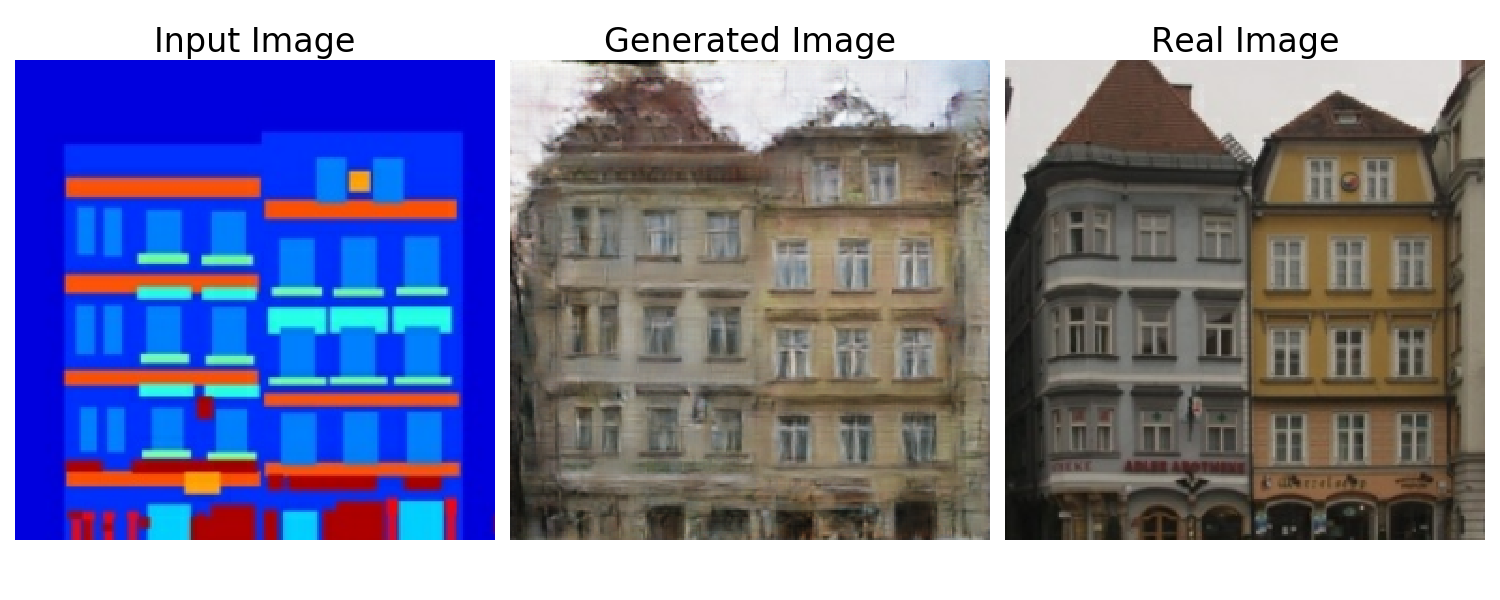
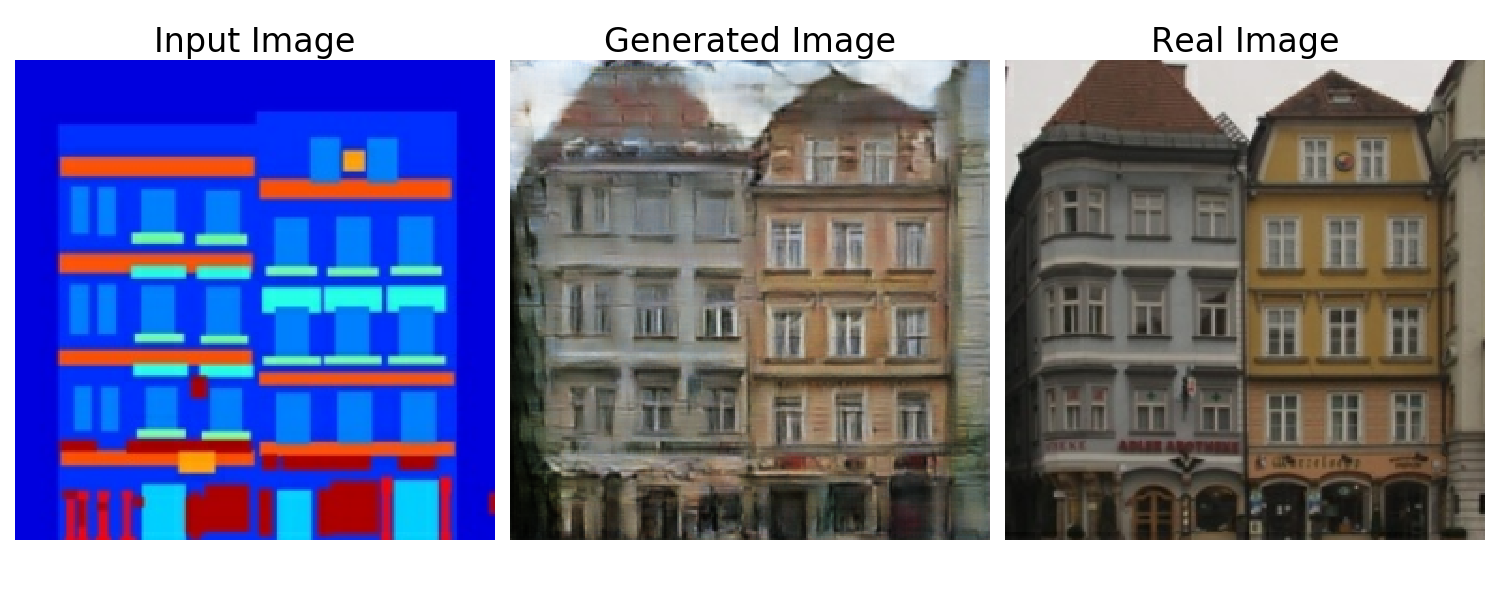
pix2pix: fixed network structure

diff --git a/cg/pix2pix/main.py b/cg/pix2pix/main.py
@@ -1222,9 +1222,9 @@ class UNet(tf.Module):
                               dict(n_kernel=512, size=4, apply_dropout=True),
                               dict(n_kernel=512, size=4, apply_dropout=True),
                               dict(n_kernel=512, size=4),
-                              dict(n_kernel=512, size=4),
-                              dict(n_kernel=512, size=4),
-                              dict(n_kernel=512, size=4),
+                              dict(n_kernel=256, size=4),
+                              dict(n_kernel=128, size=4),
+                              dict(n_kernel=64, size=4),
                               dict(n_kernel=3, size=4, apply_batchnorm=False, apply_activ=False)]
 
         # create sub-modules under the name scope
